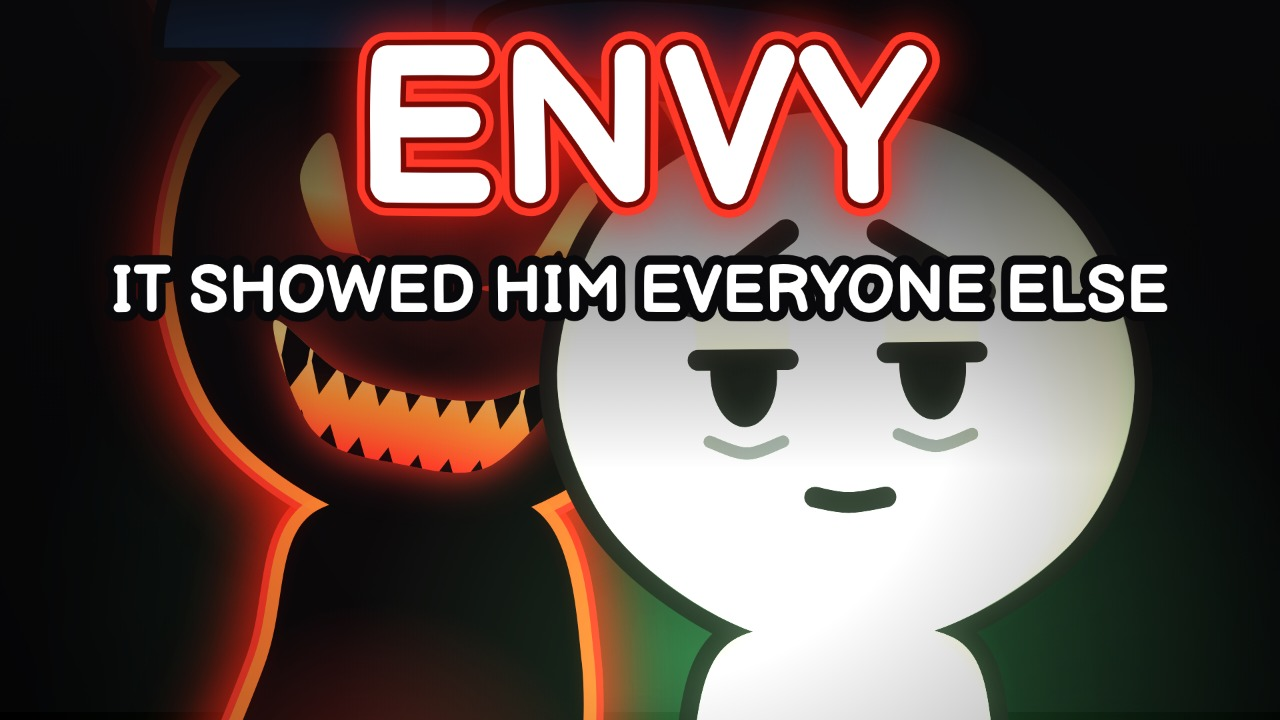
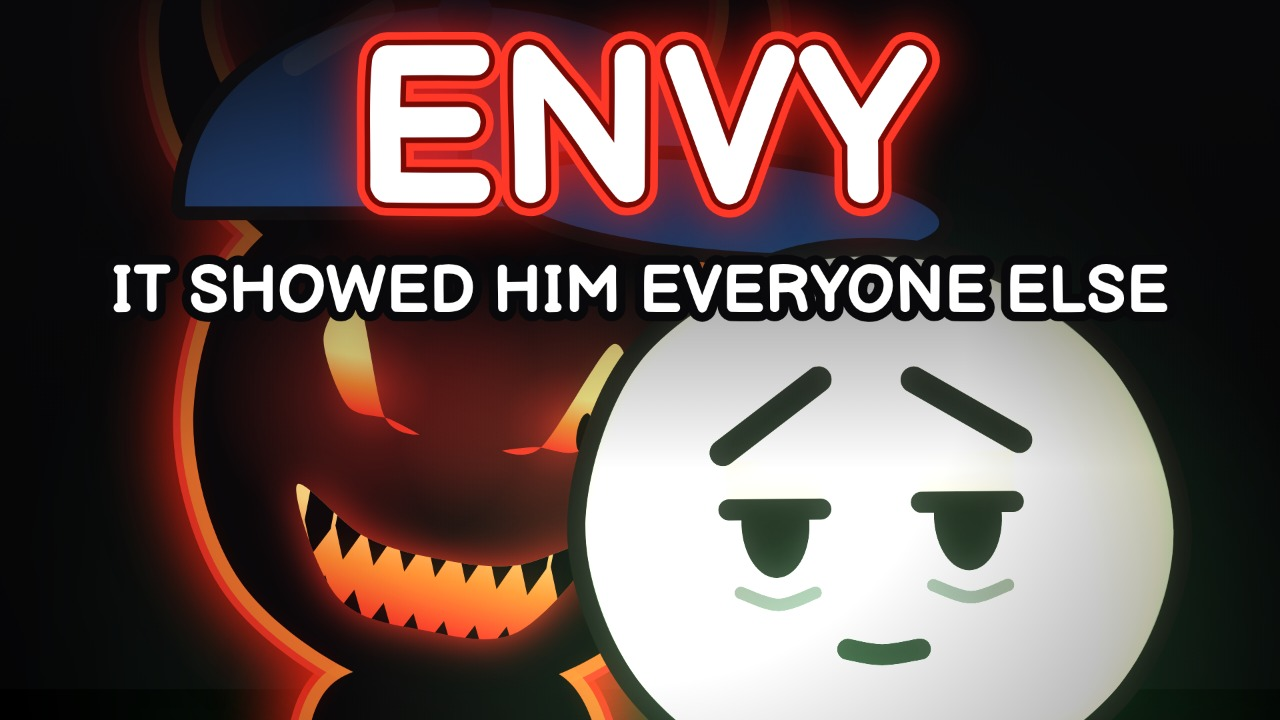
Film 08 ENVY: QA round 2 fixes, checkpoint before render 3
No squeezed X eyes when he crushes the page; the door punch shows the devil; the cap falls off away from its face.

Claude-Session: https://claude.ai/code/session_01SQM8pBvS4ZQLWSXq4KStmb

diff --git a/films/08-envy/film.js b/films/08-envy/film.js
@@ -270,7 +270,7 @@ shot('crumple', 'split', 'PAGES: 30', (L, u, t, c) => {
   over(() => counter(counted ? 'PAGES: 29' : 'PAGES: 30'));
   camD(push(u, .05) * 1.1, 760, 520, () => {
     deskHalf(t, { X: 960, lamp: .8, pinned: 3, q: .5, glowK: 1 + grow * .3,
-      boy: { expr: L < ep ? { ...FX.sad, lid: .1 } : L < cr ? 'tempted' : L < to + .3 ? { ...FX.strain, sweat: false } : 'sad', look: L < ep ? [-.8, -.05] : L < cr ? [.6, -.6] : L < to ? [0, .4] : [-.8, .0], turn: L < ep ? -.2 : L < cr ? .2 : -.1,
+      boy: { expr: L < ep ? { ...FX.sad, lid: .1 } : L < cr ? 'tempted' : L < to + .3 ? { ...FX.resolve, m: 'grit', lid: .1 } : 'sad', look: L < ep ? [-.8, -.05] : L < cr ? [.6, -.6] : L < to ? [0, .4] : [-.8, .0], turn: L < ep ? -.2 : L < cr ? .2 : -.1,
         armR: L > ep + .1 && L < to + .2 ? [lerp(1060, 1000, crushK), lerp(lerp(500, 300, take), 600, crushK)] : undefined, armL: L > cr && L < to + .2 ? [lerp(900, 950, crushK), 600 - 40 * crushK] : undefined,
         glowOn: [GREEN, .32 + .12 * grow], glowSide: -1 },
       back: () => { if (L < ep + .2) { comicD(1130, 260, 210, 1, .05); disc(1130, 160, 6, rgba([220, 60, 50])); } else if (L < cr) comicD(lerp(1130, 1060, take), lerp(260, 300, take), 210 * (1 - take * .2), 1, .05 + take * .3); },
@@ -318,7 +318,7 @@ function round2L(L, t, c, o = {}) {
   const rip = eo(seg(L, rp - .15, rp + .25)), up = eio(seg(L, rp - 1, rp - .2)), eat = seg(L, m2 - .1, m2 + .5), pluck = eio(seg(L, pl - .3, pl)), toMouth = eio(seg(L, pl + .05, cr)), take = eio(seg(L, mt - .3, mt)), put = eio(seg(L, mt, mo)), lamp = 1 - eo(seg(L, lo, lo + .15));
   const ww = 260, wh = 196, wx = 250, wy = 590;
   deskHalf(t, { lamp: .45 * lamp, pinned: L > rp ? 0 : 2, green: true, glowK: 1.2, pencil: L < pl - .05, pile: 0,
-    boy: { expr: L < w2 + .4 ? { ...FX.sad, lid: .1 } : L < rp - .2 ? 'tempted' : L < rp + .5 ? { ...FX.strain, sweat: false } : L < pl - .3 ? 'sad' : L < cr + .3 ? 'fear' : { ...FX.sad, lid: .35, bags: true },
+    boy: { expr: L < w2 + .4 ? { ...FX.sad, lid: .1 } : L < rp - .2 ? 'tempted' : L < rp + .5 ? { ...FX.resolve, m: 'grit', lid: .1 } : L < pl - .3 ? 'sad' : L < cr + .3 ? 'fear' : { ...FX.sad, lid: .35, bags: true },
       look: L < rp - 1 ? [-.8, -.2] : L < rp + .5 ? [0, .3] : L < pl ? [-.6, -.1] : [-.3, .3], turn: L < rp - 1 ? -.25 : 0,
       armL: up > 0 && L < m2 ? [lerp(430, 380 - rip * 60, up), lerp(680, 560, up)] : undefined, armR: up > 0 && L < m2 ? [lerp(530, 580 + rip * 60, up), lerp(680, 560, up)] : undefined, glowOn: [GREEN, .42], glowSide: -1 },
     before: f => { D_ = devBehind(t, { x: 210, y: 900, h: 600, expr: L < w2 + .2 ? devEx('charm', L, []) : L < rp ? devEx('sweet', L, [w2 + 1.4]) : L < m2 + .6 ? { ...DX.happy, m: 'open', h: .6 } : L < mt - .3 ? devEx('grin', L, []) : devEx('charm', L, [mo + .4]),
@@ -611,7 +611,7 @@ shot('door', 'stitch', null, (L, u, t, c) => {
     if (hug < .9) comicD(cx, cy, 200, 1, 0);
     // the devil on the step, sulking; the cap falls off it
     const dv = figure({ kind: 'devil', x: 470, y: 900, h: 560, stage: 3, expr: L < hg ? devEx('sulk', L, [1.2]) : { ...DX.plead, m: 'pout' }, look: [.9, -.2], tilt: -.08, lean: -.06, armL: [430, 700], armR: [520, 700], tail: [-.34, .05], heat: .5, t });
-    if (L < cf) devCap(dv, 1); else { const k = capK; capAt(lerp(dv.head[0], 330, k), lerp(dv.head[1] - dv.hr * .82, 880, k * k), dv.hr * 1.02, k * 2.4, CAP, 1); }
+    if (L < cf) devCap(dv, 1); else { const k = capK, x0 = dv.head[0], y0 = dv.head[1] - dv.hr * 1.15; capAt(lerp(x0, x0 + 280, k), lerp(y0, 880, k * k) - 90 * Math.sin(k * Math.PI), dv.hr * 1.02, k * 2.4, CAP, 1); }
   });
 });
 // PAGE 300: the counters meet and the tear stitches shut; the two of him slide together into one
@@ -719,7 +719,7 @@ cut('page1', { a: 0, b: 1.5, sp: 1.3 }); cut('page1', { a: 1.5, b: 2.9, sp: 1.3,
 cut('page40', { a: 0, b: 1.5, sp: 1.3 }); cut('page40', { a: 1.5, b: 2.6, sp: 1.2 }); cut('page40', { a: 2.6, b: 3.5, sp: 1.2, cam: [2.0, 470, 470] }); cut('page40', { a: 3.5, b: 5.0, sp: 1.3 });
 cut('board40', { sp: 1.2 }); cut('down40', { sp: 1.3 });
 cut('door', { a: 0, b: 1.6, sp: 1.3 }); cut('door', { a: 1.6, b: 2.9, sp: 1.3, cam: [2.0, 1140, 520] }); cut('door', { a: 2.9, b: 4.0, sp: 1.2 });
-cut('door', { a: 4.0, b: 5.0, sp: 1.2, cam: [1.8, 460, 680] }); cut('door', { a: 5.0, b: 6.5, sp: 1.3 });
+cut('door', { a: 4.0, b: 5.0, sp: 1.2, cam: [1.55, 520, 600] }); cut('door', { a: 5.0, b: 6.5, sp: 1.3 });
 cut('stitch', { a: 0, b: 2.0, sp: 1.3 }); cut('stitch', { a: 2.0, b: 5.0, sp: 1.15 });
 // the last picture, the title
 cut('last', { a: 0, b: 2.4, sp: 1.2 }); cut('last', { a: 2.4, b: 3.6, sp: 1.1, cam: [1.7, 960, 500] }); cut('last', { a: 3.6, b: 5.4, sp: 1.1 }); cut('last', { a: 5.4, b: 7.0, sp: 1.0 });

diff --git a/films/08-envy/src/30-split.js b/films/08-envy/src/30-split.js
@@ -26,7 +26,7 @@ function round2L(L, t, c, o = {}) {
   const rip = eo(seg(L, rp - .15, rp + .25)), up = eio(seg(L, rp - 1, rp - .2)), eat = seg(L, m2 - .1, m2 + .5), pluck = eio(seg(L, pl - .3, pl)), toMouth = eio(seg(L, pl + .05, cr)), take = eio(seg(L, mt - .3, mt)), put = eio(seg(L, mt, mo)), lamp = 1 - eo(seg(L, lo, lo + .15));
   const ww = 260, wh = 196, wx = 250, wy = 590;
   deskHalf(t, { lamp: .45 * lamp, pinned: L > rp ? 0 : 2, green: true, glowK: 1.2, pencil: L < pl - .05, pile: 0,
-    boy: { expr: L < w2 + .4 ? { ...FX.sad, lid: .1 } : L < rp - .2 ? 'tempted' : L < rp + .5 ? { ...FX.strain, sweat: false } : L < pl - .3 ? 'sad' : L < cr + .3 ? 'fear' : { ...FX.sad, lid: .35, bags: true },
+    boy: { expr: L < w2 + .4 ? { ...FX.sad, lid: .1 } : L < rp - .2 ? 'tempted' : L < rp + .5 ? { ...FX.resolve, m: 'grit', lid: .1 } : L < pl - .3 ? 'sad' : L < cr + .3 ? 'fear' : { ...FX.sad, lid: .35, bags: true },
       look: L < rp - 1 ? [-.8, -.2] : L < rp + .5 ? [0, .3] : L < pl ? [-.6, -.1] : [-.3, .3], turn: L < rp - 1 ? -.25 : 0,
       armL: up > 0 && L < m2 ? [lerp(430, 380 - rip * 60, up), lerp(680, 560, up)] : undefined, armR: up > 0 && L < m2 ? [lerp(530, 580 + rip * 60, up), lerp(680, 560, up)] : undefined, glowOn: [GREEN, .42], glowSide: -1 },
     before: f => { D_ = devBehind(t, { x: 210, y: 900, h: 600, expr: L < w2 + .2 ? devEx('charm', L, []) : L < rp ? devEx('sweet', L, [w2 + 1.4]) : L < m2 + .6 ? { ...DX.happy, m: 'open', h: .6 } : L < mt - .3 ? devEx('grin', L, []) : devEx('charm', L, [mo + .4]),

diff --git a/films/08-envy/src/20-window.js b/films/08-envy/src/20-window.js
@@ -50,7 +50,7 @@ shot('crumple', 'split', 'PAGES: 30', (L, u, t, c) => {
   over(() => counter(counted ? 'PAGES: 29' : 'PAGES: 30'));
   camD(push(u, .05) * 1.1, 760, 520, () => {
     deskHalf(t, { X: 960, lamp: .8, pinned: 3, q: .5, glowK: 1 + grow * .3,
-      boy: { expr: L < ep ? { ...FX.sad, lid: .1 } : L < cr ? 'tempted' : L < to + .3 ? { ...FX.strain, sweat: false } : 'sad', look: L < ep ? [-.8, -.05] : L < cr ? [.6, -.6] : L < to ? [0, .4] : [-.8, .0], turn: L < ep ? -.2 : L < cr ? .2 : -.1,
+      boy: { expr: L < ep ? { ...FX.sad, lid: .1 } : L < cr ? 'tempted' : L < to + .3 ? { ...FX.resolve, m: 'grit', lid: .1 } : 'sad', look: L < ep ? [-.8, -.05] : L < cr ? [.6, -.6] : L < to ? [0, .4] : [-.8, .0], turn: L < ep ? -.2 : L < cr ? .2 : -.1,
         armR: L > ep + .1 && L < to + .2 ? [lerp(1060, 1000, crushK), lerp(lerp(500, 300, take), 600, crushK)] : undefined, armL: L > cr && L < to + .2 ? [lerp(900, 950, crushK), 600 - 40 * crushK] : undefined,
         glowOn: [GREEN, .32 + .12 * grow], glowSide: -1 },
       back: () => { if (L < ep + .2) { comicD(1130, 260, 210, 1, .05); disc(1130, 160, 6, rgba([220, 60, 50])); } else if (L < cr) comicD(lerp(1130, 1060, take), lerp(260, 300, take), 210 * (1 - take * .2), 1, .05 + take * .3); },

diff --git a/films/08-envy/src/95-edit.js b/films/08-envy/src/95-edit.js
@@ -36,7 +36,7 @@ cut('page1', { a: 0, b: 1.5, sp: 1.3 }); cut('page1', { a: 1.5, b: 2.9, sp: 1.3,
 cut('page40', { a: 0, b: 1.5, sp: 1.3 }); cut('page40', { a: 1.5, b: 2.6, sp: 1.2 }); cut('page40', { a: 2.6, b: 3.5, sp: 1.2, cam: [2.0, 470, 470] }); cut('page40', { a: 3.5, b: 5.0, sp: 1.3 });
 cut('board40', { sp: 1.2 }); cut('down40', { sp: 1.3 });
 cut('door', { a: 0, b: 1.6, sp: 1.3 }); cut('door', { a: 1.6, b: 2.9, sp: 1.3, cam: [2.0, 1140, 520] }); cut('door', { a: 2.9, b: 4.0, sp: 1.2 });
-cut('door', { a: 4.0, b: 5.0, sp: 1.2, cam: [1.8, 460, 680] }); cut('door', { a: 5.0, b: 6.5, sp: 1.3 });
+cut('door', { a: 4.0, b: 5.0, sp: 1.2, cam: [1.55, 520, 600] }); cut('door', { a: 5.0, b: 6.5, sp: 1.3 });
 cut('stitch', { a: 0, b: 2.0, sp: 1.3 }); cut('stitch', { a: 2.0, b: 5.0, sp: 1.15 });
 // the last picture, the title
 cut('last', { a: 0, b: 2.4, sp: 1.2 }); cut('last', { a: 2.4, b: 3.6, sp: 1.1, cam: [1.7, 960, 500] }); cut('last', { a: 3.6, b: 5.4, sp: 1.1 }); cut('last', { a: 5.4, b: 7.0, sp: 1.0 });

diff --git a/films/08-envy/src/60-pages.js b/films/08-envy/src/60-pages.js
@@ -78,7 +78,7 @@ shot('door', 'stitch', null, (L, u, t, c) => {
     if (hug < .9) comicD(cx, cy, 200, 1, 0);
     // the devil on the step, sulking; the cap falls off it
     const dv = figure({ kind: 'devil', x: 470, y: 900, h: 560, stage: 3, expr: L < hg ? devEx('sulk', L, [1.2]) : { ...DX.plead, m: 'pout' }, look: [.9, -.2], tilt: -.08, lean: -.06, armL: [430, 700], armR: [520, 700], tail: [-.34, .05], heat: .5, t });
-    if (L < cf) devCap(dv, 1); else { const k = capK; capAt(lerp(dv.head[0], 330, k), lerp(dv.head[1] - dv.hr * .82, 880, k * k), dv.hr * 1.02, k * 2.4, CAP, 1); }
+    if (L < cf) devCap(dv, 1); else { const k = capK, x0 = dv.head[0], y0 = dv.head[1] - dv.hr * 1.15; capAt(lerp(x0, x0 + 280, k), lerp(y0, 880, k * k) - 90 * Math.sin(k * Math.PI), dv.hr * 1.02, k * 2.4, CAP, 1); }
   });
 });
 // PAGE 300: the counters meet and the tear stitches shut; the two of him slide together into one
